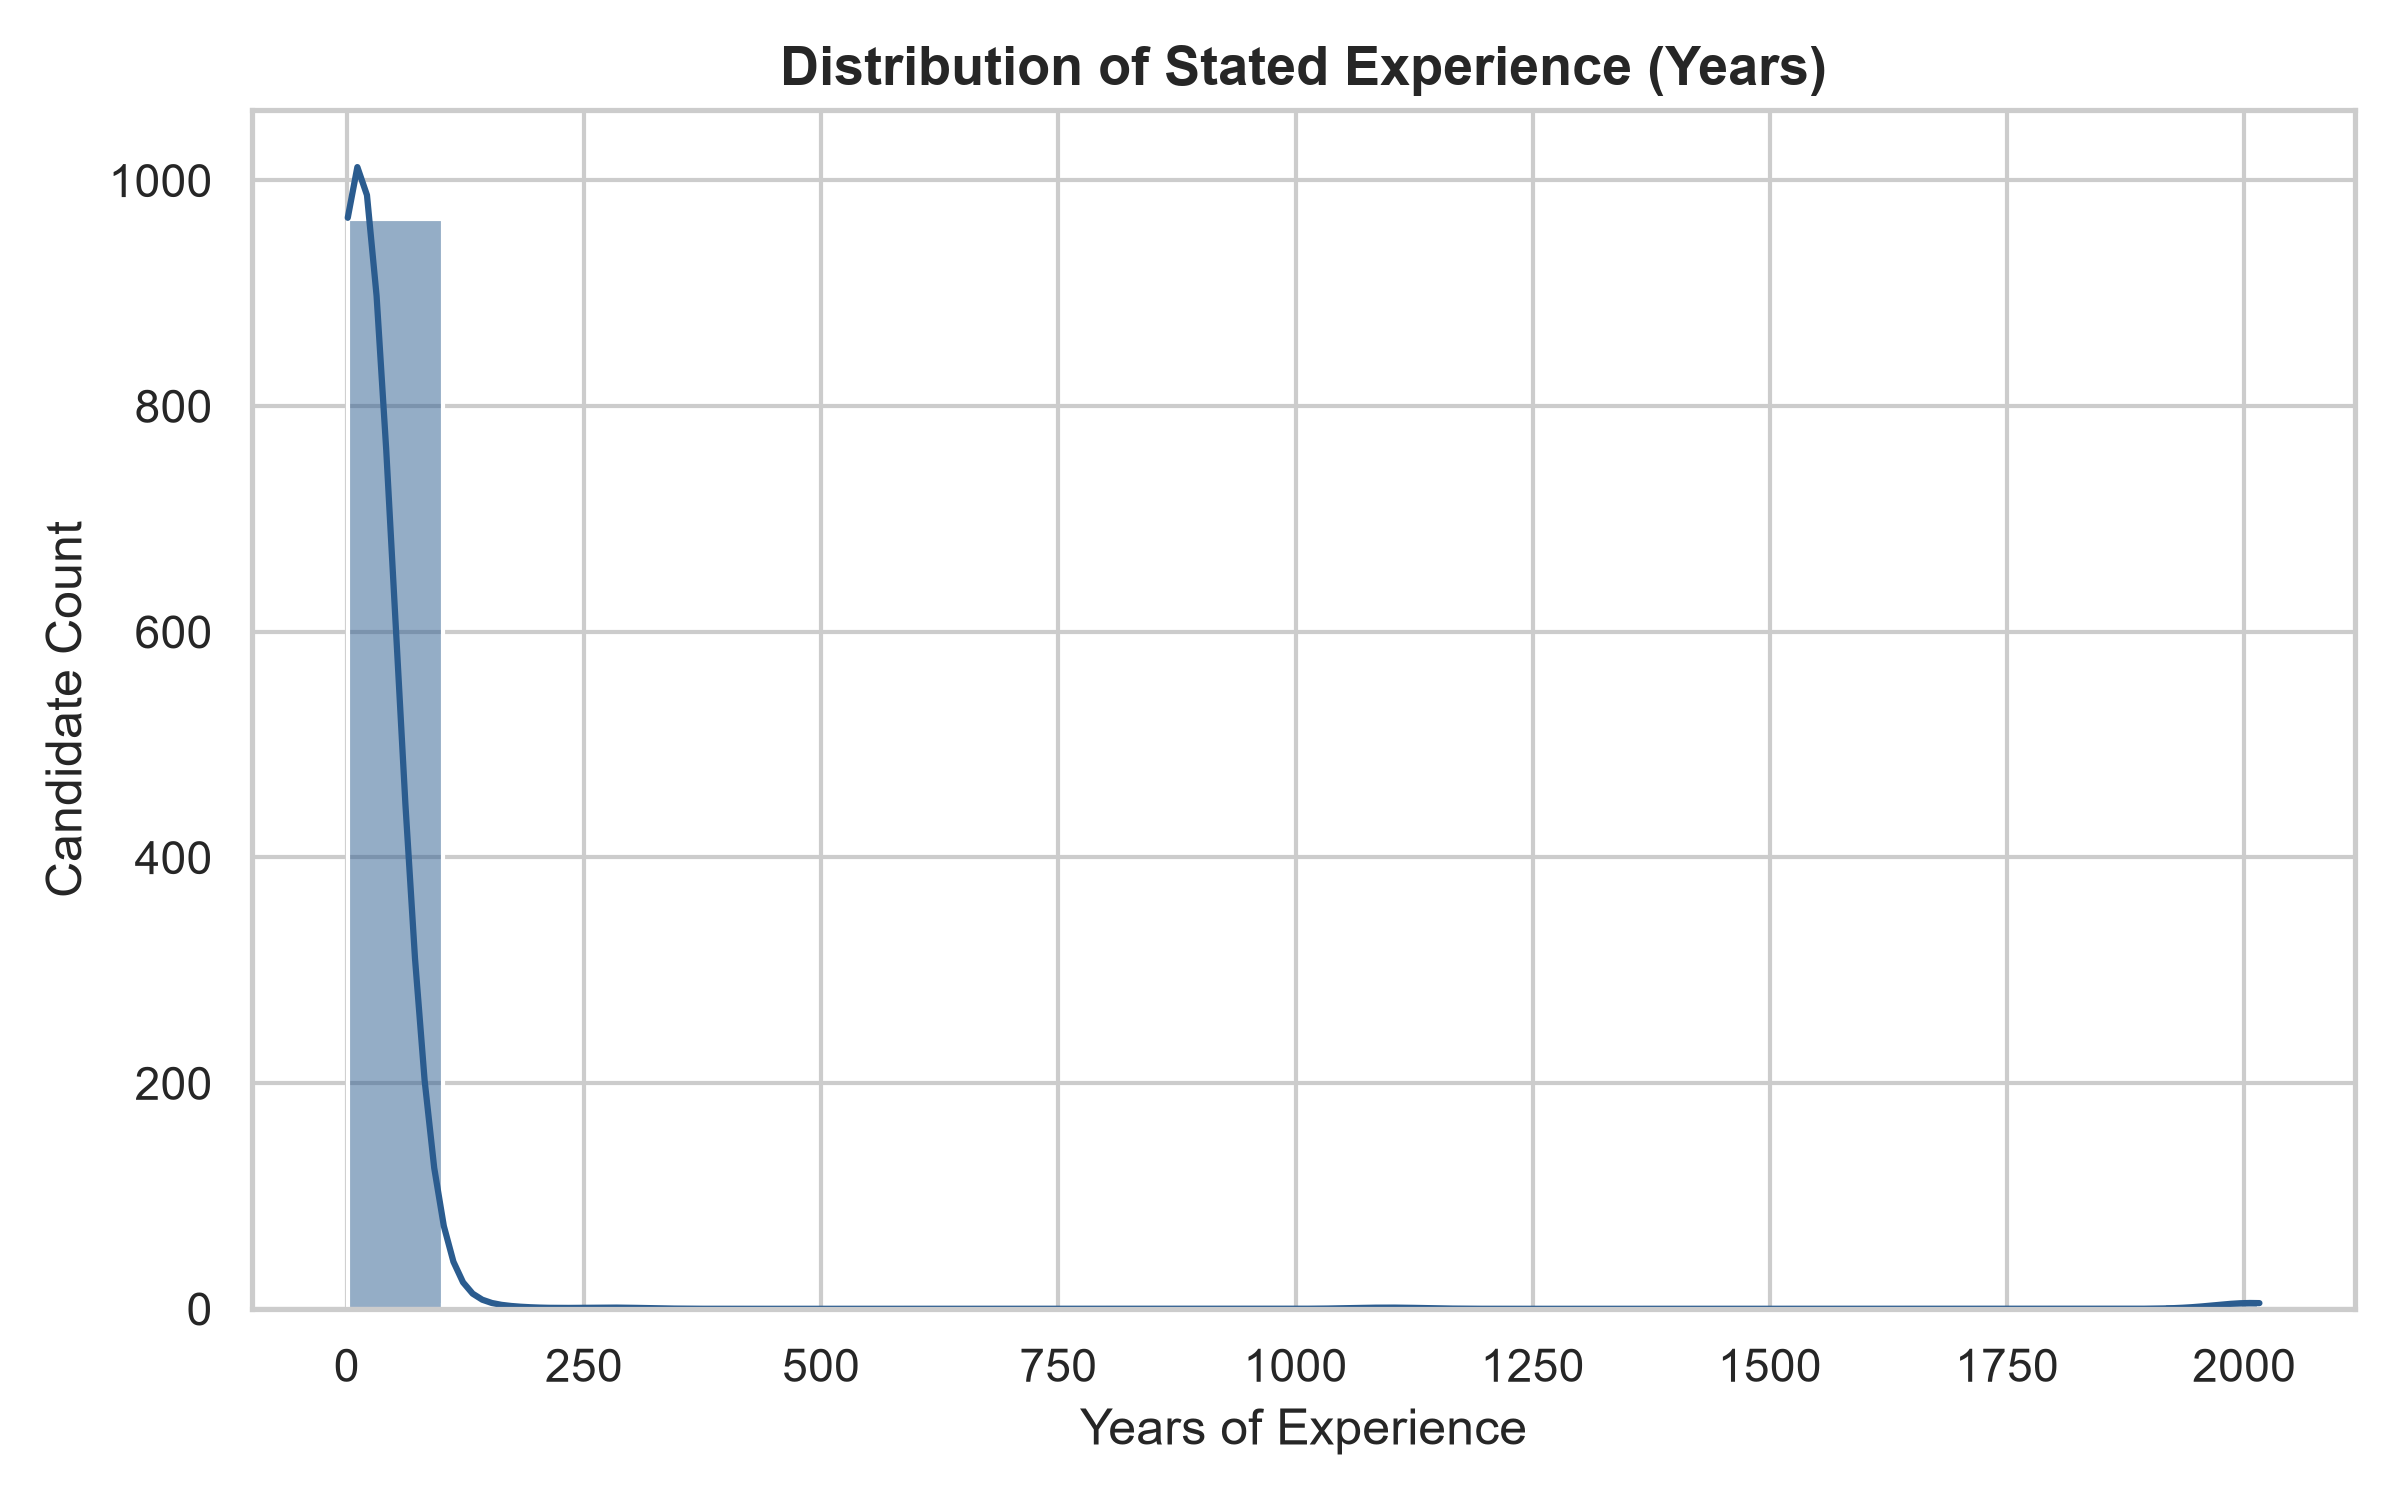
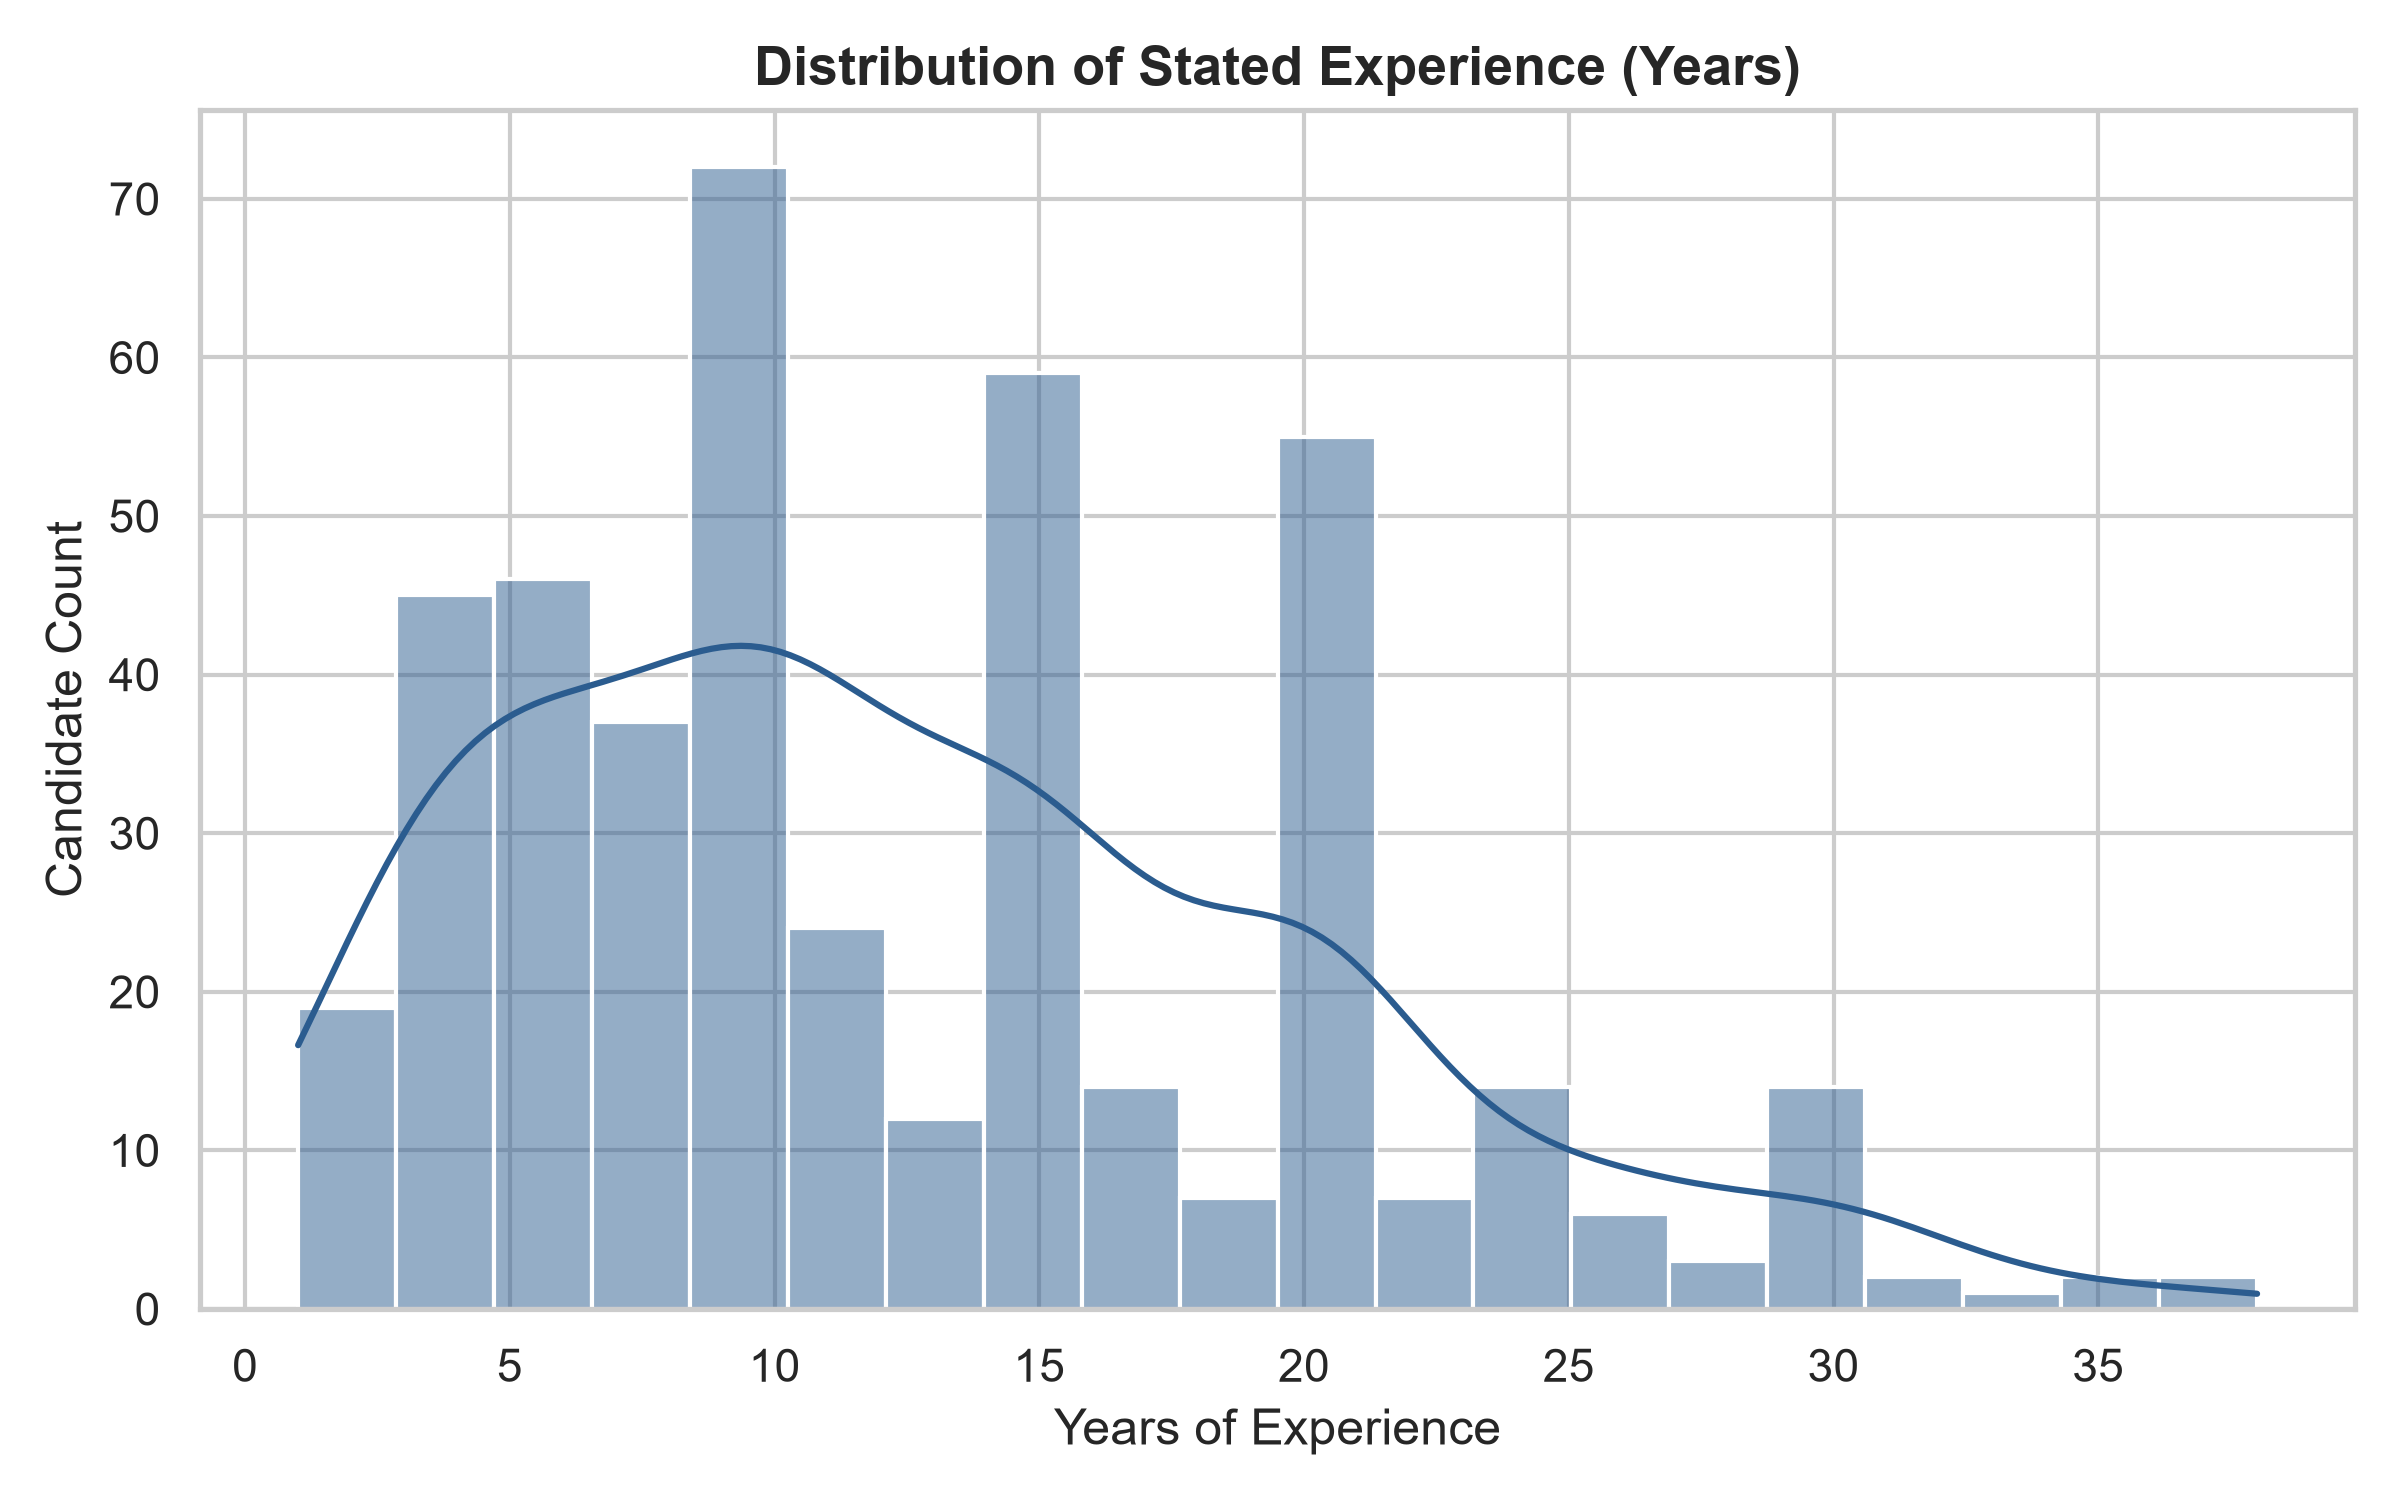
fix: resolve experience regex bug and update model comparison report

diff --git a/src/skill_extractor.py b/src/skill_extractor.py
@@ -1,122 +1,202 @@
+"""
+Skill & Entity Extraction Engine (Production)
+=============================================
+Extracts skills, experience years, and education degrees from any text
+using spaCy NLP + custom PhraseMatcher + regex pattern matching.
+
+Used by both the JD pipeline and Resume pipeline for consistent extraction.
+
+Team: AI/ML (Week 1 Core Deliverable)
+"""
+
 import spacy
 from spacy.matcher import PhraseMatcher
 import re
 from typing import Dict, List, Any
 
-# Load spaCy NLP model
+# -----------------------------------------------------------
+# LOAD SPACY MODEL
+# -----------------------------------------------------------
 nlp = spacy.load("en_core_web_sm")
 
-# Comprehensive taxonomy of skills (Technical, Analytical, Tools, Soft Skills)
+
+# -----------------------------------------------------------
+# SKILL TAXONOMY (Technical + Soft Skills)
+# -----------------------------------------------------------
 SKILL_TAXONOMY = [
     # Programming Languages
-    "python", "r", "java", "c", "c++", "c#", "javascript", "typescript", "php", "ruby", "swift", "kotlin", "scala", "go", "rust", "sql", "pl/sql", "bash", "powershell",
-    
+    "python", "r", "java", "c", "c++", "c#", "javascript", "typescript",
+    "php", "ruby", "swift", "kotlin", "scala", "go", "rust", "sql",
+    "pl/sql", "bash", "powershell",
+
     # Data Science / AI / ML
-    "machine learning", "deep learning", "nlp", "natural language processing", "computer vision", "artificial intelligence", 
-    "data analysis", "data analytics", "data science", "data mining", "predictive modeling", "statistics", "statistical analysis",
-    "scikit-learn", "tensorflow", "keras", "pytorch", "pandas", "numpy", "scipy", "xgboost", "lightgbm", "spacy", "nltk", "hugging face", "transformers", "bert", "llm", "large language models", "opencv",
-    
+    "machine learning", "deep learning", "nlp", "natural language processing",
+    "computer vision", "artificial intelligence", "data analysis",
+    "data analytics", "data science", "data mining", "predictive modeling",
+    "statistics", "statistical analysis", "scikit-learn", "tensorflow",
+    "keras", "pytorch", "pandas", "numpy", "scipy", "xgboost", "lightgbm",
+    "spacy", "nltk", "hugging face", "transformers", "bert", "llm",
+    "large language models", "opencv",
+
     # Data Visualization & BI
-    "tableau", "power bi", "matplotlib", "seaborn", "plotly", "excel", "advanced excel", "looker", "qlik", "d3.js",
-    
+    "tableau", "power bi", "matplotlib", "seaborn", "plotly", "excel",
+    "advanced excel", "looker", "qlik", "d3.js",
+
     # Big Data & Cloud Platforms
-    "aws", "azure", "gcp", "google cloud platform", "hadoop", "spark", "pyspark", "kafka", "snowflake", "bigquery", "redshift", "hive", "docker", "kubernetes", "airflow", "databricks",
-    
+    "aws", "azure", "gcp", "google cloud platform", "hadoop", "spark",
+    "pyspark", "kafka", "snowflake", "bigquery", "redshift", "hive",
+    "docker", "kubernetes", "airflow", "databricks",
+
     # Web & Databases
-    "django", "flask", "fastapi", "react", "node.js", "angular", "vue", "html", "css",
-    "postgresql", "mysql", "mongodb", "sqlite", "oracle", "nosql", "redis", "elasticsearch",
-    
+    "django", "flask", "fastapi", "react", "node.js", "angular", "vue",
+    "html", "css", "postgresql", "mysql", "mongodb", "sqlite", "oracle",
+    "nosql", "redis", "elasticsearch",
+
     # Developer Tools & Methodologies
-    "git", "github", "gitlab", "ci/cd", "agile", "scrum", "jira", "linux", "rest api", "api development", "unit testing",
-    
+    "git", "github", "gitlab", "ci/cd", "agile", "scrum", "jira", "linux",
+    "rest api", "api development", "unit testing",
+
     # Business & Soft Skills
-    "communication", "team leadership", "leadership", "project management", "critical thinking", "problem solving", "stakeholder management", "collaboration", "time management", "presentation skills"
+    "communication", "team leadership", "leadership", "project management",
+    "critical thinking", "problem solving", "stakeholder management",
+    "collaboration", "time management", "presentation skills"
 ]
 
-# Standard Education Degree Keywords
+
+# -----------------------------------------------------------
+# EDUCATION KEYWORD MAPPING
+# -----------------------------------------------------------
 EDUCATION_KEYWORDS = {
     "Doctorate": ["phd", "ph.d", "doctorate", "doctoral"],
-    "Master's": ["master", "masters", "msc", "m.sc", "mtech", "m.tech", "mba", "m.b.a", "mca", "m.c.a", "ms", "m.s", "post graduate", "postgraduate", "pg"],
-    "Bachelor's": ["bachelor", "bachelors", "bsc", "b.sc", "btech", "b.tech", "bca", "b.c.a", "be", "b.e", "bba", "b.b.a", "ba", "b.a", "undergraduate", "ug"],
+    "Master's": [
+        "master", "masters", "msc", "m.sc", "mtech", "m.tech", "mba",
+        "m.b.a", "mca", "m.c.a", "ms", "m.s", "post graduate",
+        "postgraduate", "pg"
+    ],
+    "Bachelor's": [
+        "bachelor", "bachelors", "bsc", "b.sc", "btech", "b.tech", "bca",
+        "b.c.a", "be", "b.e", "bba", "b.b.a", "ba", "b.a", "undergraduate",
+        "ug"
+    ],
     "Diploma": ["diploma", "associate degree", "polytechnic"]
 }
 
-# Initialize PhraseMatcher
+
+# -----------------------------------------------------------
+# INITIALIZE PHRASEMATCHER
+# -----------------------------------------------------------
 matcher = PhraseMatcher(nlp.vocab, attr="LOWER")
 patterns = [nlp.make_doc(skill) for skill in SKILL_TAXONOMY]
 matcher.add("SKILLS", patterns)
 
 
+# -----------------------------------------------------------
+# SKILL EXTRACTION
+# -----------------------------------------------------------
 def extract_skills(text: str) -> List[str]:
     """
     Extracts matched skills from cleaned text using spaCy PhraseMatcher.
-    Returns a unique, title-cased list of skills.
+
+    Args:
+        text: Cleaned text string.
+
+    Returns:
+        Unique, title-cased list of detected skills.
     """
     if not text:
         return []
-    
+
     doc = nlp(text.lower())
     matches = matcher(doc)
-    
+
     extracted = set()
     for match_id, start, end in matches:
         span = doc[start:end]
         extracted.add(span.text.title())
-        
+
     return sorted(list(extracted))
 
 
+# -----------------------------------------------------------
+# EXPERIENCE EXTRACTION (WITH REALISTIC VALIDATION)
+# -----------------------------------------------------------
 def extract_experience_years(text: str) -> float:
     """
-    Extracts total or minimum years of experience mentioned in the text using regex.
+    Extracts stated years of experience from text using regex.
+    Ignores calendar years (e.g., 1998, 2000, 2016, 2024) and
+    caps realistic experience at 45 years.
+
+    Args:
+        text: Cleaned text string.
+
+    Returns:
+        Maximum validated experience in years, or 0.0 if none found.
     """
-    if not text:
+    if not isinstance(text, str) or not text.strip():
         return 0.0
-    
-    # Patterns like "5+ years", "3 to 5 yrs", "2.5 years", "10 years of experience"
+
     patterns = [
         r'(\d+(?:\.\d+)?)\s*\+?\s*(?:years?|yrs?)(?:\s+of)?\s+experience',
         r'experience\s*(?:of)?\s*(\d+(?:\.\d+)?)\s*\+?\s*(?:years?|yrs?)',
-        r'(\d+(?:\.\d+)?)\s*\+?\s*(?:years?|yrs?)'
+        r'(\d+(?:\.\d+)?)\s*\+?\s*(?:years?|yrs?)\s+in\b'
     ]
-    
+
     found_years = []
     for pattern in patterns:
         matches = re.findall(pattern, text, flags=re.IGNORECASE)
         for m in matches:
             try:
-                found_years.append(float(m))
+                val = float(m)
+                # IGNORE calendar years (e.g., 1990-2026) and unrealistic values (>45)
+                if 0.5 <= val <= 45.0:
+                    found_years.append(val)
             except ValueError:
                 continue
-                
-    # Return the maximum explicit years number found, or 0.0
+
     return max(found_years) if found_years else 0.0
 
 
+# -----------------------------------------------------------
+# EDUCATION EXTRACTION
+# -----------------------------------------------------------
 def extract_education(text: str) -> List[str]:
     """
     Identifies degree tiers (Doctorate, Master's, Bachelor's, Diploma) present in text.
+
+    Args:
+        text: Cleaned text string.
+
+    Returns:
+        Sorted list of detected degree levels.
     """
     if not text:
         return []
-    
+
     text_lower = text.lower()
     detected_degrees = set()
-    
+
     for degree_level, keywords in EDUCATION_KEYWORDS.items():
         for kw in keywords:
-            # Match standalone keywords
             pattern = r'\b' + re.escape(kw) + r'\b'
             if re.search(pattern, text_lower):
                 detected_degrees.add(degree_level)
                 break
-                
+
     return sorted(list(detected_degrees))
 
 
+# -----------------------------------------------------------
+# WRAPPER FUNCTION
+# -----------------------------------------------------------
 def extract_profile(text: str) -> Dict[str, Any]:
     """
-    Wrapper function that runs all extraction components on input text.
+    Runs all extraction components on input text.
+
+    Args:
+        text: Cleaned text string.
+
+    Returns:
+        Dictionary with 'skills', 'experience_years', 'education'.
     """
     return {
         "skills": extract_skills(text),
@@ -125,14 +205,18 @@ def extract_profile(text: str) -> Dict[str, Any]:
     }
 
 
+# -----------------------------------------------------------
+# ENTRY POINT (UNIT TEST)
+# -----------------------------------------------------------
 if __name__ == "__main__":
     sample_text = """
     Senior Data Scientist with 4+ years of experience in Machine Learning, Python, and SQL.
     Hold a Master's degree in Computer Science and a Bachelor's in Mathematics.
     Hands-on expertise in PyTorch, Scikit-Learn, Power BI, AWS, and Git.
     Strong communication and Agile team leadership abilities.
+    Graduated in 2000. Joined first job in 2005.
     """
-    
+
     print("=" * 60)
     print("🧠 TESTING SKILL & ENTITY EXTRACTION")
     print("=" * 60)
